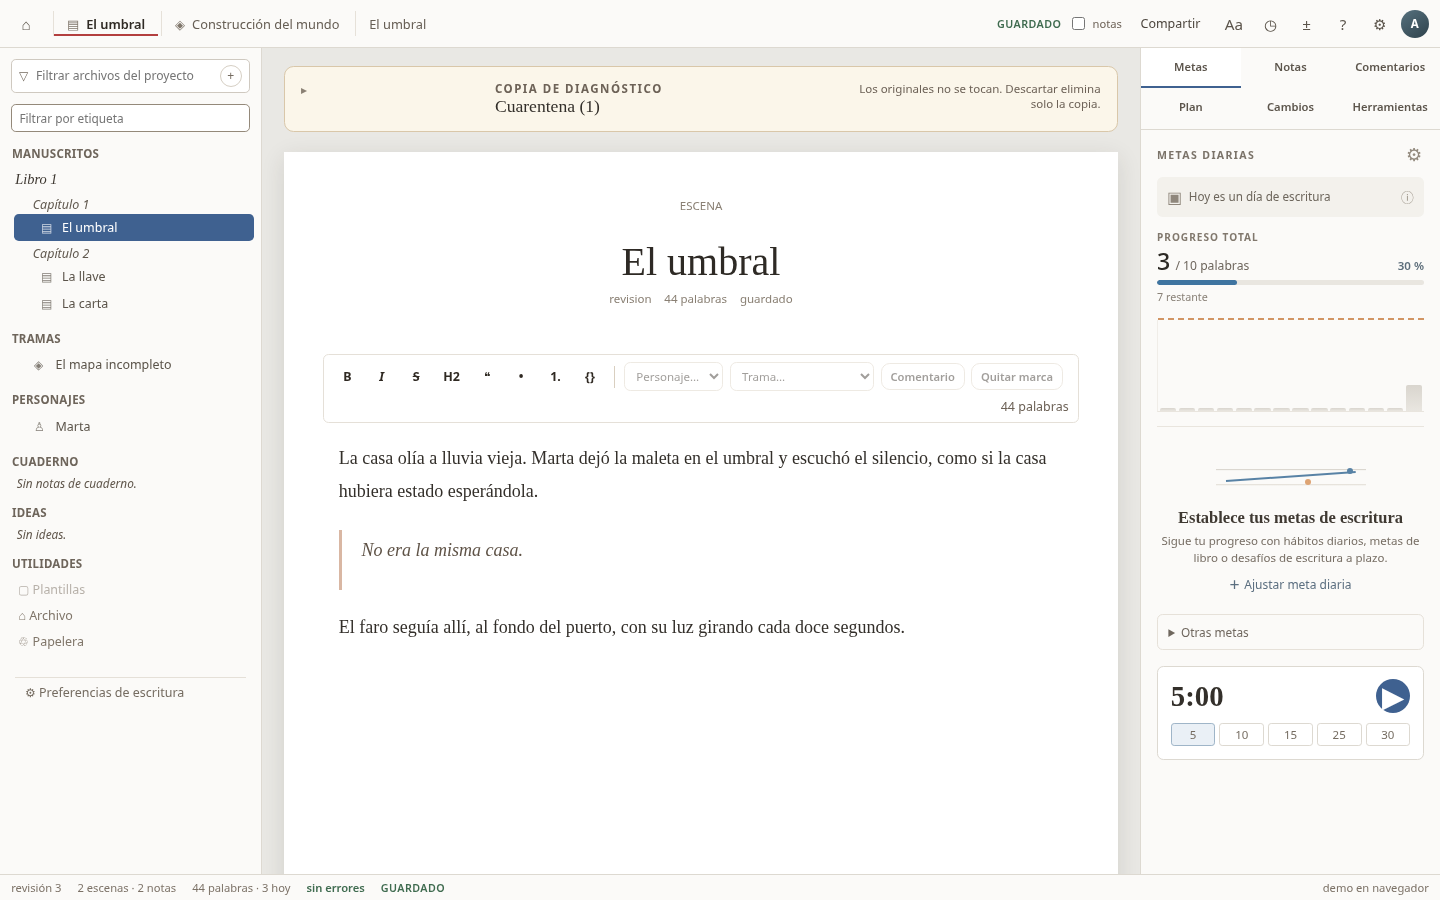
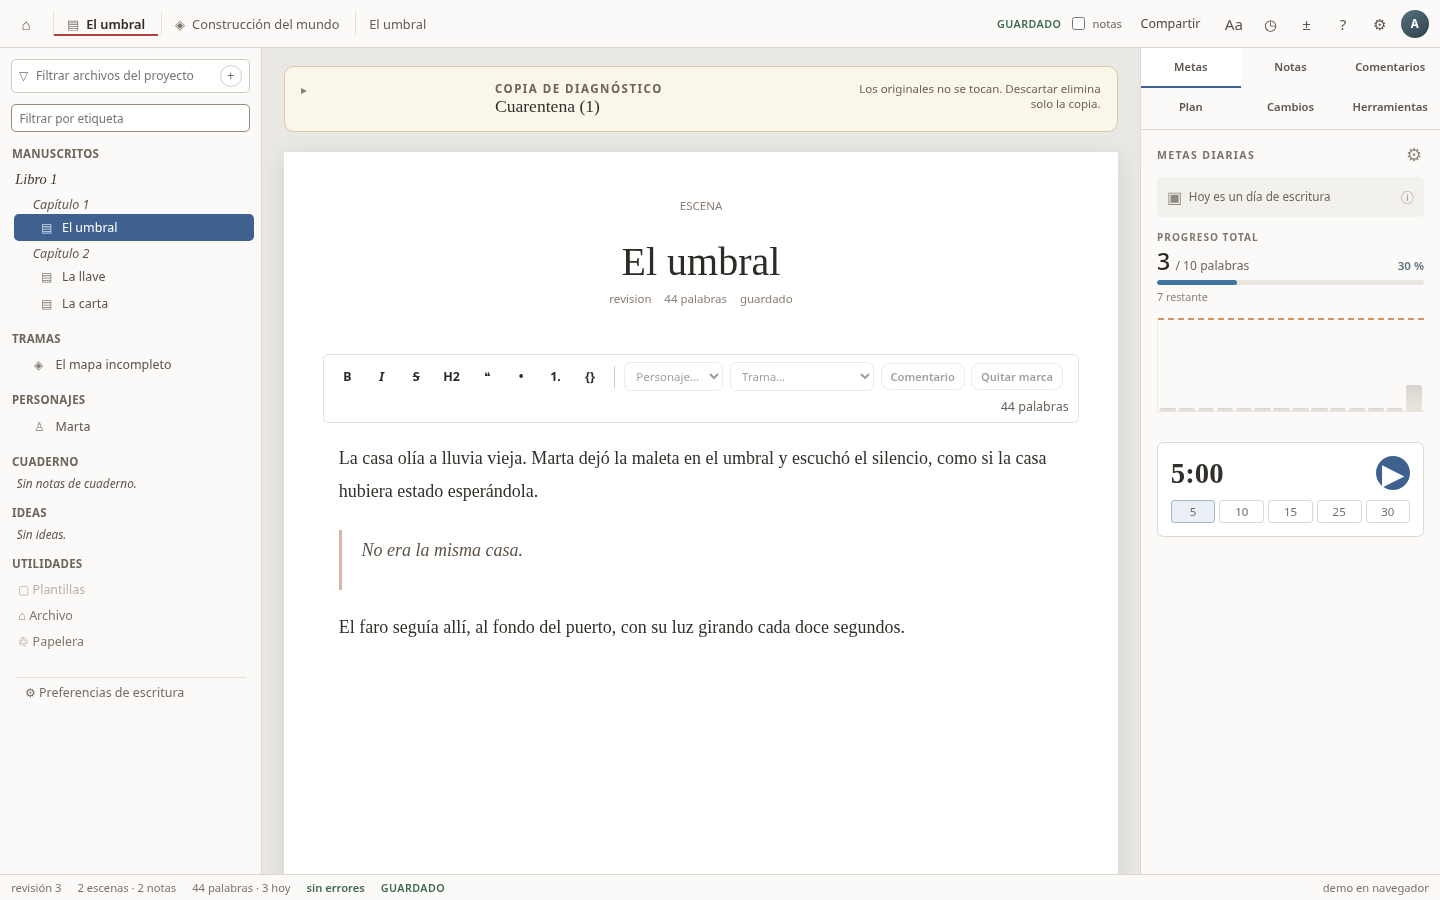
style: retirar la tarjeta de llamada y otras metas del panel

diff --git a/ui/src/App.tsx b/ui/src/App.tsx
@@ -386,9 +386,6 @@ export default function App() {
   });
   const [rolPersonaje, setRolPersonaje] = useState('');
   const [aliasPersonaje, setAliasPersonaje] = useState('');
-  const [metaLibro, setMetaLibro] = useState('');
-  const [desafioObjetivo, setDesafioObjetivo] = useState('');
-  const [desafioLimite, setDesafioLimite] = useState('');
   const [preset, setPreset] = useState(5);
   const [restante, setRestante] = useState(5 * 60);
   const [temporizadorActivo, setTemporizadorActivo] = useState(false);
@@ -742,14 +739,8 @@ export default function App() {
     const errores: string[] = [];
     if (metasResultado.status === 'fulfilled') {
       setMetas(metasResultado.value);
-      setMetaLibro(metasResultado.value.libro?.objetivo.toString() ?? '');
-      setDesafioObjetivo(metasResultado.value.desafio?.objetivo.toString() ?? '');
-      setDesafioLimite(metasResultado.value.desafio?.limite ?? '');
     } else {
       setMetas(null);
-      setMetaLibro('');
-      setDesafioObjetivo('');
-      setDesafioLimite('');
       errores.push(`Metas: ${errorDe(metasResultado.reason).mensaje}`);
     }
     if (gridResultado.status === 'fulfilled') {
@@ -1072,45 +1063,6 @@ export default function App() {
       if (drenajeRef.current === promesa) {
         drenajeRef.current = null;
       }
-    }
-  };
-
-  const guardarMetasPanel = async () => {
-    const actual = proyectoRef.current;
-    if (!actual) {
-      return;
-    }
-    if (errorMetas) {
-      setMensaje('No se guardan metas mientras haya un sidecar ilegible.');
-      return;
-    }
-    const numero = (texto: string) => {
-      const limpio = texto.trim();
-      if (!limpio) {
-        return null;
-      }
-      const valor = Number(limpio);
-      return Number.isFinite(valor) && valor >= 0 ? Math.floor(valor) : null;
-    };
-    const libro = numero(metaLibro);
-    const desafio = numero(desafioObjetivo);
-    const nuevo: MetasDto = {
-      version: 1,
-      diaria: metas?.diaria ?? null,
-      libro: libro === null ? null : { objetivo: libro },
-      desafio:
-        desafio === null || !desafioLimite
-          ? null
-          : { objetivo: desafio, limite: desafioLimite },
-      archivadas: metas?.archivadas ?? [],
-    };
-    try {
-      await guardarMetas(actual.raiz, nuevo);
-      setMetas(nuevo);
-      setErrorMetas(null);
-      setMensaje('Metas guardadas.');
-    } catch (fallo) {
-      setErrorMetas(errorDe(fallo).mensaje);
     }
   };
 
@@ -3897,50 +3849,12 @@ export default function App() {
                   libre={diaLibreHoy}
                   dias={diasGlobales}
                   onEditar={() => setModalMetaDiaria(true)}
-                  onAgregar={() => setModalMetaDiaria(true)}
                 />
-                <details className="dabble-otras-metas">
-                  <summary>Otras metas</summary>
-                  <div className="dabble-otras-metas-cuerpo">
-                    <label className="dabble-campo-meta">
-                      <span>Meta del libro (palabras)</span>
-                      <input
-                        type="number"
-                        min={0}
-                        value={metaLibro}
-                        onChange={(evento) => setMetaLibro(evento.target.value)}
-                        aria-label="Meta de palabras del libro"
-                      />
-                    </label>
-                    <label className="dabble-campo-meta">
-                      <span>Desafío (palabras)</span>
-                      <input
-                        type="number"
-                        min={0}
-                        value={desafioObjetivo}
-                        onChange={(evento) => setDesafioObjetivo(evento.target.value)}
-                        aria-label="Objetivo del desafío"
-                      />
-                    </label>
-                    <label className="dabble-campo-meta">
-                      <span>Fecha límite</span>
-                      <input
-                        type="date"
-                        value={desafioLimite}
-                        onChange={(evento) => setDesafioLimite(evento.target.value)}
-                        aria-label="Fecha límite del desafío"
-                      />
-                    </label>
-                    <button className="dabble-boton" onClick={() => void guardarMetasPanel()}>
-                      Guardar metas del libro
-                    </button>
-                    {errorMetas && (
-                      <p className="dabble-error" role="alert">
-                        {errorMetas}
-                      </p>
-                    )}
-                  </div>
-                </details>
+                {errorMetas && (
+                  <p className="dabble-error" role="alert">
+                    {errorMetas}
+                  </p>
+                )}
                 <section className="dabble-timer">
                   <div className="dabble-timer-cabecera">
                     <strong>{formatearTiempo(restante)}</strong>

diff --git a/ui/src/styles.css b/ui/src/styles.css
@@ -5232,106 +5232,6 @@ details.cuarentena[open] > summary.cuarentena-cabecera::before {
   pointer-events: none;
 }
 
-.meta-cta {
-  display: flex;
-  flex-direction: column;
-  align-items: center;
-  gap: 0.35rem;
-  padding: 0.9rem 0.2rem 0.2rem;
-  border-top: 1px solid #e9e5de;
-  text-align: center;
-}
-
-.meta-cta-ilustracion {
-  position: relative;
-  width: 150px;
-  height: 58px;
-  margin-bottom: 0.2rem;
-  background:
-    linear-gradient(180deg, transparent 48%, #d8d4cc 49%, #d8d4cc 50%, transparent 51%),
-    linear-gradient(180deg, transparent 74%, #e5e1da 75%, #e5e1da 76%, transparent 77%);
-  opacity: 0.9;
-}
-
-.meta-cta-linea {
-  position: absolute;
-  right: 10px;
-  bottom: 17px;
-  left: 10px;
-  border-top: 2px solid #47769d;
-  transform: rotate(-4deg);
-  transform-origin: left center;
-}
-
-.meta-cta-punto {
-  position: absolute;
-  right: 13px;
-  bottom: 25px;
-  width: 6px;
-  height: 6px;
-  border-radius: 50%;
-  background: #47769d;
-}
-
-.meta-cta-punto-2 {
-  right: 55px;
-  bottom: 14px;
-  background: #db9b65;
-}
-
-.meta-cta h3 {
-  margin: 0;
-  color: #3f3932;
-  font-family: Georgia, "Times New Roman", serif;
-  font-size: 1.03rem;
-  font-weight: 600;
-}
-
-.meta-cta p {
-  margin: 0;
-  color: #776e64;
-  font-size: 0.72rem;
-  line-height: 1.45;
-}
-
-.meta-agregar {
-  display: inline-flex;
-  align-items: center;
-  gap: 0.3rem;
-  padding: 0.2rem;
-  border: 0;
-  background: transparent;
-  color: #5c6f80;
-  font: inherit;
-  font-size: 0.75rem;
-  cursor: pointer;
-}
-
-.meta-agregar span {
-  font-size: 1.1rem;
-  line-height: 1;
-}
-
-.dabble-otras-metas {
-  margin: 0 1rem 1rem;
-  padding: 0.55rem 0.65rem;
-  border: 1px solid #e6e1d9;
-  border-radius: 0.35rem;
-  color: #6f675e;
-  font-size: 0.74rem;
-}
-
-.dabble-otras-metas summary {
-  cursor: pointer;
-}
-
-.dabble-otras-metas-cuerpo {
-  display: flex;
-  flex-direction: column;
-  gap: 0.35rem;
-  padding-top: 0.5rem;
-}
-
 .modal-meta-diaria {
   width: min(360px, calc(100vw - 2rem));
   max-height: min(90vh, 820px);

diff --git a/ui/src/features/metas/PanelMetaDiaria.tsx b/ui/src/features/metas/PanelMetaDiaria.tsx
@@ -11,7 +11,6 @@ type Props = {
   libre: boolean;
   dias: Dia[];
   onEditar: () => void;
-  onAgregar: () => void;
 };
 
 export function PanelMetaDiaria({
@@ -23,7 +22,6 @@ export function PanelMetaDiaria({
   libre,
   dias,
   onEditar,
-  onAgregar,
 }: Props) {
   const maximo = Math.max(1, objetivo, ...dias.map((dia) => dia.palabras));
   const alturaObjetivo = objetivo > 0 ? Math.min(100, (objetivo / maximo) * 100) : 0;
@@ -98,23 +96,6 @@ export function PanelMetaDiaria({
           Aún no tienes una meta diaria. Crea una para empezar a medir tu hábito.
         </p>
       )}
-
-      <div className="meta-cta">
-        <div className="meta-cta-ilustracion" aria-hidden="true">
-          <span className="meta-cta-linea" />
-          <span className="meta-cta-punto" />
-          <span className="meta-cta-punto meta-cta-punto-2" />
-        </div>
-        <h3>Establece tus metas de escritura</h3>
-        <p>
-          Sigue tu progreso con hábitos diarios, metas de libro o desafíos de
-          escritura a plazo.
-        </p>
-        <button className="meta-agregar" onClick={meta ? onEditar : onAgregar}>
-          <span aria-hidden="true">+</span>{' '}
-          {meta ? 'Ajustar meta diaria' : 'Agregar una meta'}
-        </button>
-      </div>
     </section>
   );
 }

diff --git a/docs/metas-v1.md b/docs/metas-v1.md
@@ -55,12 +55,13 @@ global, se migra una sola vez al abrir el proyecto.
 
 ## 6. UI
 
-- Tarjeta **METAS DIARIAS** con engranaje, estado de hoy, progreso, gráfico y
-  llamada para configurar/ajustar la meta.
-- Modal de meta diaria con las opciones de conteo y días libres.
-- «Otras metas» para libro y desafío.
+- Tarjeta **METAS DIARIAS** con engranaje, estado de hoy, progreso y gráfico.
+- El engranaje abre el modal de meta diaria con las opciones de conteo y días
+  libres; no hay tarjeta inferior de llamada a la acción.
 - Temporizador con presets, tiempo restante, iniciar/pausar/finalizar.
-- Estado vacío con «Agregar una meta» y sin controles falsos.
+- Estado vacío con el engranaje para configurar la primera meta.
+- Las metas de libro y desafío se conservan en el archivo del proyecto, pero no
+  se editan en este panel.
 - Los cambios de meta se guardan al confirmar, no en cada tecla.
 - El temporizador sigue funcionando al cambiar de documento; la sesión queda
   asociada al documento activo al iniciar.

diff --git a/docs/iteraciones/33-metas-globales.md b/docs/iteraciones/33-metas-globales.md
@@ -25,8 +25,10 @@ no sobre las sesiones de un proyecto concreto.
   `localStorage` (`writer.metas-globales.v1`).
 - Migración inicial: si el proyecto abierto tiene una meta diaria antigua y aún
   no hay una global, se adopta esa meta una sola vez.
-- Las metas de **libro** y **desafío** siguen disponibles en «Otras metas» del
-  proyecto; la meta diaria ya no se edita por proyecto.
+- Se retiraron la tarjeta «Establece tus metas de escritura» y el bloque
+  «Otras metas»: la meta se configura desde el engranaje de la cabecera.
+- Los datos antiguos de libro y desafío se conservan en el proyecto por
+  compatibilidad, pero ya no se editan desde este panel.
 - El temporizador de sesión se conserva debajo del panel.
 
 ## 3. Cálculo

diff --git a/docs/metas-globales-v1.md b/docs/metas-globales-v1.md
@@ -49,8 +49,8 @@ El editor calcula el delta de palabras de cada documento activo.
 - «Hoy es un día de escritura» / «Hoy es un día libre».
 - Progreso, porcentaje, restante y gráfico de 14 días.
 - Modal de configuración con días libres y recordatorio local.
-- «Establece tus metas de escritura» / «Agregar una meta» y «Ajustar meta
-  diaria».
+- El engranaje de la cabecera es la única entrada para crear, ajustar o
+  eliminar la meta diaria.
 
 ## 4. Persistencia y migración
 
